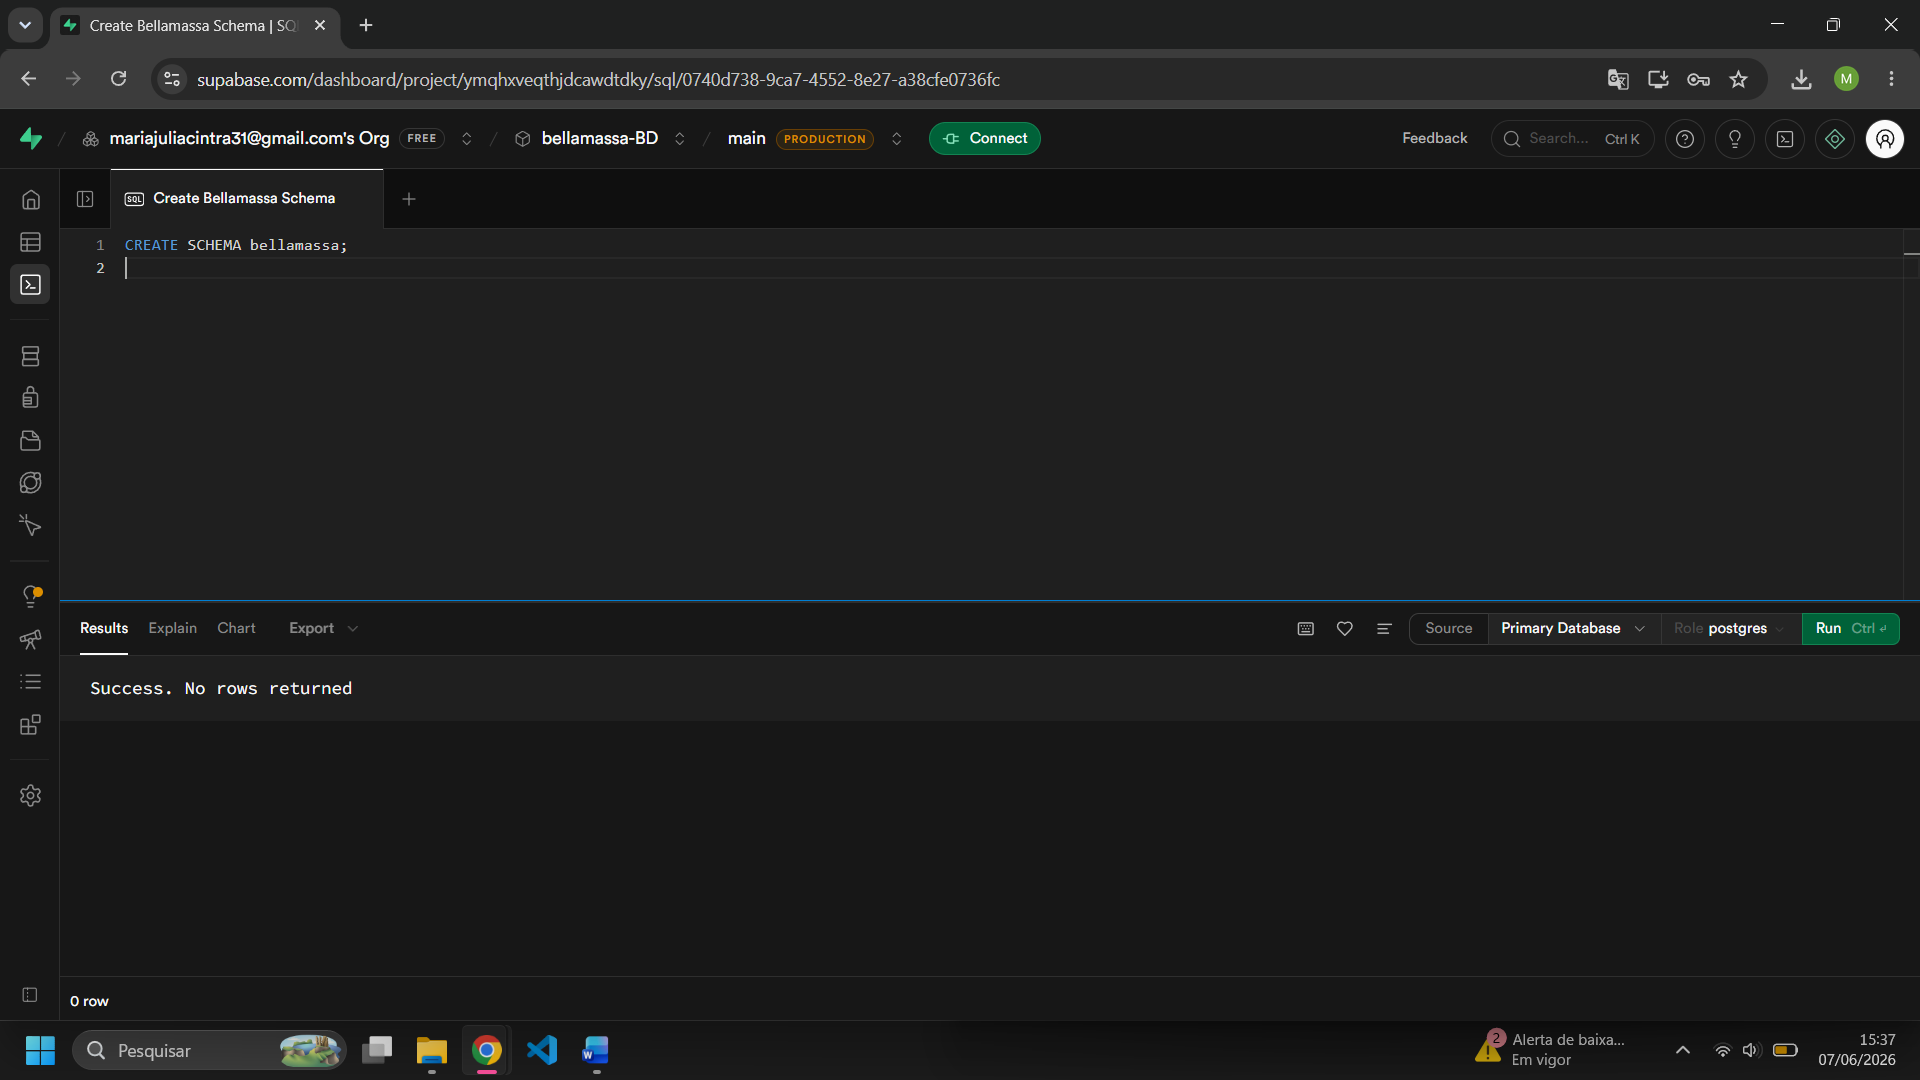
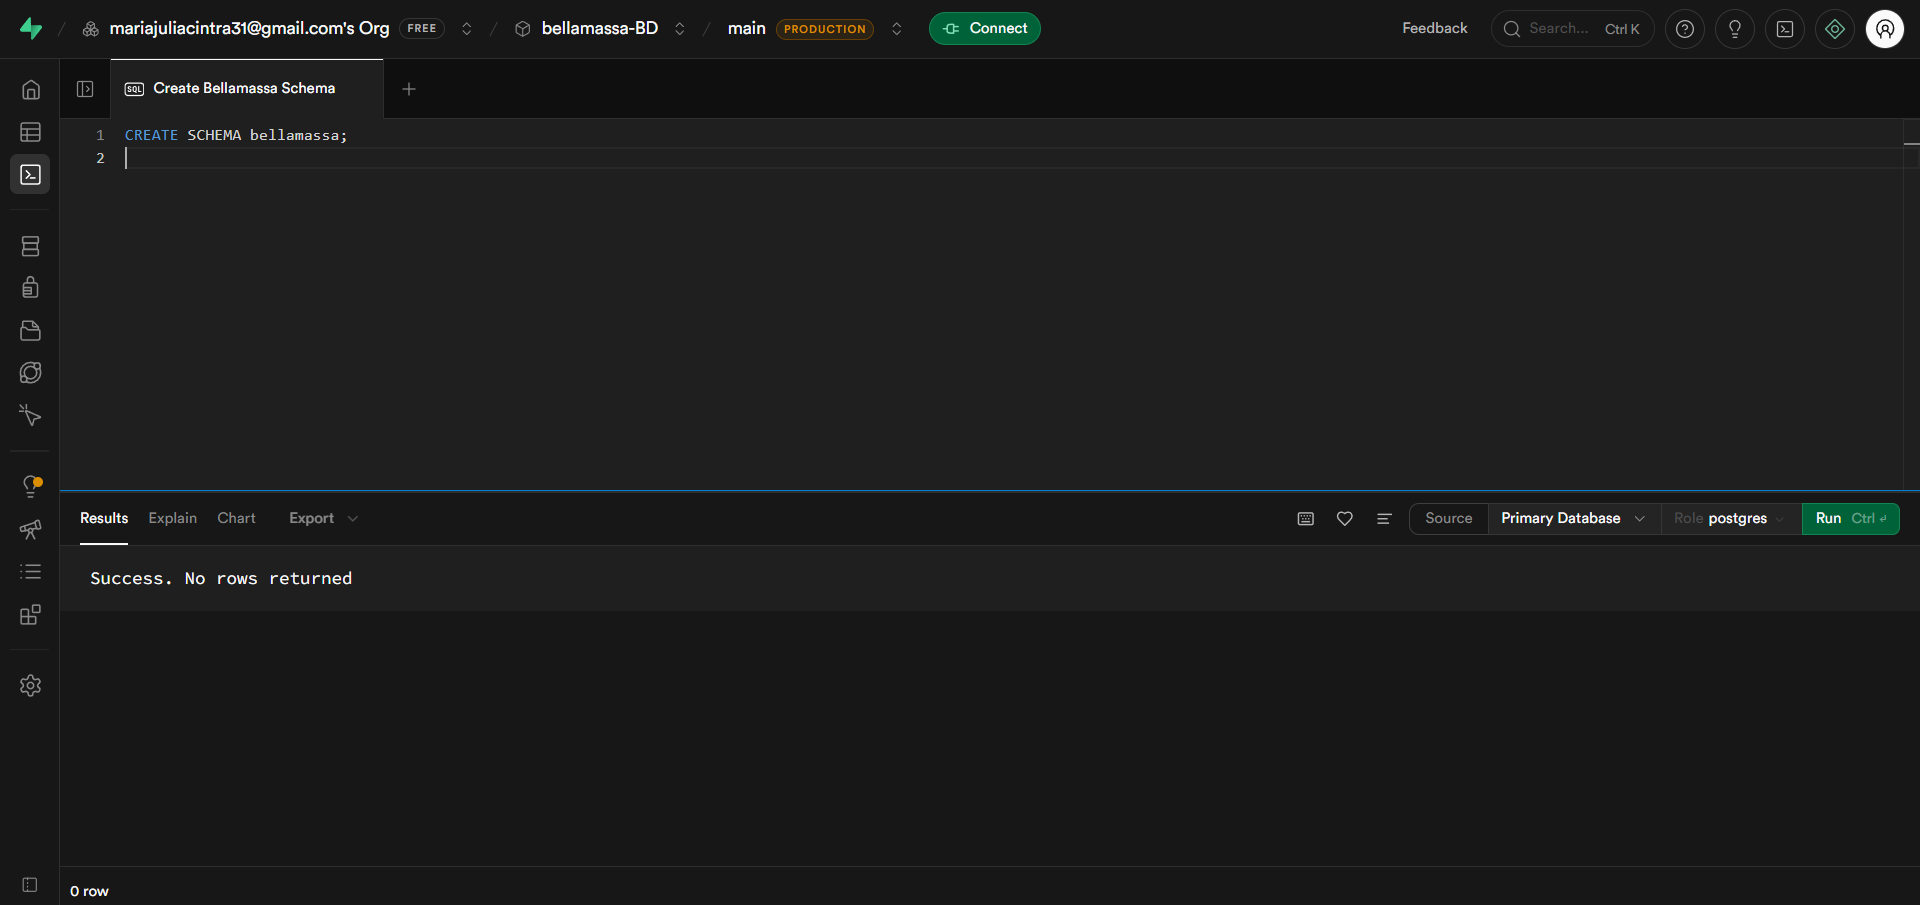
Adicionando as imagens no README

diff --git a/README.md b/README.md
@@ -1,84 +1,97 @@
 # 🍕 Bella Massa - Sistema de Gerenciamento de Pedidos
 
-## Cenário
+## 1. Cenário
 
 A pizzaria **Bella Massa** está passando por um processo de expansão e necessita de um sistema para automatizar o gerenciamento de clientes, pedidos, entregas, ingredientes adicionais e programa de fidelidade.
 
 O sistema foi projetado para atender às seguintes necessidades:
 
-* Cadastro de clientes e múltiplos telefones de contato;
-* Controle do cardápio de pizzas e bebidas;
-* Registro de ingredientes adicionais nos pedidos;
-* Gerenciamento de pedidos e cálculo automático do valor total;
-* Controle de entregas realizadas pelos motoboys;
-* Programa de fidelidade para clientes VIP.
+- Cadastro de clientes e múltiplos telefones de contato;
+- Controle do cardápio de pizzas e bebidas;
+- Registro de ingredientes adicionais nos pedidos;
+- Gerenciamento de pedidos e cálculo automático do valor total;
+- Controle de entregas realizadas pelos motoboys;
+- Programa de fidelidade para clientes VIP.
 
 ---
 
-## Modelagem Conceitual
+## 2. Modelagem Conceitual
 
 Nesta etapa foi realizada a identificação das entidades, atributos e relacionamentos necessários para representar o cenário da pizzaria.
 
 ### Principais Entidades
 
-* Cliente
-* Telefone
-* Pedido
-* Item do Cardápio
-* Ingrediente Adicional
-* Item do Pedido
-* Motoboy
-* Entrega
-* Conta Fidelidade
+- **Cliente** – representa o cliente que realiza pedidos na pizzaria;
+- **Endereço** – endereço associado ao cliente para fins de entrega;
+- **Pedido** – registro de cada compra realizada por um cliente;
+- **Produto** – itens disponíveis no cardápio (pizzas e bebidas);
+- **Motoboy** – responsável por realizar as entregas dos pedidos;
+- **Conta_fidelidade** – programa de pontos exclusivo para clientes VIP.
 
 ### Relacionamentos Identificados
 
-* Um cliente pode possuir vários telefones;
-* Um cliente pode realizar vários pedidos;
-* Um pedido contém vários itens;
-* Um item do pedido pode possuir vários ingredientes adicionais;
-* Um motoboy realiza entregas;
-* Cada pedido possui uma entrega;
-* Um cliente pode possuir uma conta fidelidade exclusiva.
+- Um **Cliente** pode possuir vários **telefones** de contato;
+- Um **Cliente** pode realizar vários **Pedidos**;
+- Um **Pedido** contém vários **Produtos** (relação N:N via tabela intermediária `Pedido_produto`);
+- Um item do pedido pode possuir vários **ingredientes adicionais**;
+- Um **Motoboy** realiza **Entregas**;
+- Cada **Pedido** possui uma única **Entrega**;
+- Um **Cliente** pode possuir uma **Conta_fidelidade** exclusiva (relação 1:1).
 
 ### DER (Diagrama Entidade Relacionamento)
 
-![DER da Bella Massa](./DER-bellamassa.png)
+![Diagrama Entidade Relacionamento](./DER-bellamassa.png)
 
 ---
 
-## Modelagem Lógica
+## 3. Modelagem Lógica
 
-Após a modelagem conceitual, foi realizada a transformação para o modelo lógico, definindo:
+Após a modelagem conceitual, foi realizada a transformação para o modelo lógico, definindo tabelas, chaves primárias e chaves estrangeiras.
 
 ### Tabelas
 
-* Cliente
-* Telefone
-* Pedido
-* Item_Cardapio
-* Ingrediente
-* Item_Pedido
-* Item_Pedido_Ingrediente
-* Motoboy
-* Entrega
-* Conta_Fidelidade
+| Tabela           | Descrição                                              |
+|------------------|--------------------------------------------------------|
+| `Cliente`        | Armazena os dados dos clientes                         |
+| `Endereco`       | Armazena o endereço de entrega do cliente              |
+| `Produto`        | Armazena os itens do cardápio (pizzas e bebidas)       |
+| `Pedido`         | Registra os pedidos realizados                         |
+| `Pedido_produto` | Tabela associativa entre Pedido e Produto (N:N)        |
+| `Ingrediente`    | Ingredientes adicionais vinculados a um item do pedido |
+| `Motoboy`        | Dados dos motoboys responsáveis pelas entregas         |
+| `Entrega`        | Registra as entregas vinculadas a cada pedido          |
+| `Conta_fidelidade` | Conta de pontos exclusiva por cliente               |
 
-### Chaves Primárias
+### Chaves Primárias (PK)
 
-Descrever as PKs definidas para cada tabela.
+| Tabela             | Chave Primária       | Tipo   | Observação                          |
+|--------------------|----------------------|--------|-------------------------------------|
+| `Cliente`          | `id_cliente`         | INT    | Auto incremento                     |
+| `Endereco`         | `id_endereco`        | INT    | Auto incremento                     |
+| `Produto`          | `id_produto`         | INT    | Auto incremento                     |
+| `Pedido`           | `id_pedido`          | INT    | Auto incremento                     |
+| `Pedido_produto`   | `id_pedido_produto`  | INT    | Auto incremento                     |
+| `Motoboy`          | `cpf`                | CHAR   | CPF utilizado como identificador    |
+| `Conta_fidelidade` | `id_conta`           | INT    | Auto incremento                     |
 
-### Chaves Estrangeiras
+### Chaves Estrangeiras (FK)
 
-Descrever as FKs responsáveis pelos relacionamentos entre as tabelas.
+| Tabela             | Chave Estrangeira   | Referencia                  | Relacionamento |
+|--------------------|---------------------|-----------------------------|----------------|
+| `Endereco`         | `id_cliente`        | `Cliente(id_cliente)`       | N:1            |
+| `Pedido`           | `id_cliente`        | `Cliente(id_cliente)`       | N:1            |
+| `Pedido_produto`   | `id_pedido`         | `Pedido(id_pedido)`         | N:1            |
+| `Pedido_produto`   | `id_produto`        | `Produto(id_produto)`       | N:1            |
+| `Pedido`           | `cpf_motoboy`       | `Motoboy(cpf)`              | N:1            |
+| `Conta_fidelidade` | `id_cliente`        | `Cliente(id_cliente)`       | 1:1            |
 
 ### MER (Modelo Entidade Relacionamento)
 
-![MER da Bella Massa](./MER-bellamassa.png)
+![Modelo Entidade Relacionamento](./MER-bellamassa.png)
 
 ---
 
-## Modelagem Física
+## 4. Modelagem Física
 
 Nesta etapa foi realizada a implementação do banco de dados no SGBD escolhido.
 
@@ -86,129 +99,164 @@ Nesta etapa foi realizada a implementação do banco de dados no SGBD escolhido.
 
 Foi criado o banco de dados destinado ao gerenciamento da pizzaria Bella Massa.
 
-![Criação do banco](./imagens/criacao-banco.png)
+![Criação do Banco de Dados](./imagens/criacao-banco.png)
 
 ### Criação das Tabelas
 
 Foram criadas todas as tabelas conforme a modelagem lógica, incluindo:
 
-* Chaves Primárias (PK)
-* Chaves Estrangeiras (FK)
-* Restrições de integridade
+- Chaves Primárias (PK);
+- Chaves Estrangeiras (FK);
 
-![Criação das tabelas e suas respctivas associações](./imagens/tabelas-associacoes.png)
+![Tabelas e associações](./imagens/tabelas-associacoes.png)
 
 ### Schema Visualizer
 
 Visualização gráfica das tabelas criadas e seus relacionamentos.
 
-📷 **Inserir print do Schema Visualizer aqui**
+![Schema Visualizer](./imagens/schema-visualizer.png)
 
-### Evidência de Domínio
+### Conceitos Aplicados
 
-Durante a implementação foram utilizados conceitos de:
+Durante a implementação foram utilizados os seguintes conceitos:
 
-* Modelagem de Dados;
-* Integridade Referencial;
-* Relacionamentos 1:1;
-* Relacionamentos 1:N;
-* Relacionamentos N:N;
-* Chaves Primárias e Estrangeiras;
-* Normalização de Dados.
+- Modelagem de Dados;
+- Integridade Referencial;
+- Relacionamentos 1:1 (ex: Cliente ↔ Conta_fidelidade);
+- Relacionamentos 1:N (ex: Cliente → Pedido);
+- Relacionamentos N:N (ex: Pedido ↔ Produto via Pedido_produto);
+- Chaves Primárias e Estrangeiras;
+- Normalização de Dados.
 
 ---
 
-## CRUD
+## 5. CRUD
 
 Foram realizados testes completos de manipulação dos dados utilizando operações CRUD.
 
-### CREATE
+### CREATE – Inserção de Dados
 
 Inserção de registros em todas as tabelas do sistema.
 
-📷 **Inserir print dos INSERTS aqui**
+![Create](./imagens/insert.png)
 
 ---
 
-### READ
+### READ – Consulta de Dados
 
-Consultas realizadas para verificar os dados cadastrados.
+Consultas realizadas para verificar os dados cadastrados:
 
-Exemplos:
+- Listagem de clientes;
+- Buscar de cliente por nome.
 
-* Listagem de clientes;
-* Listagem de pedidos;
-* Histórico de entregas;
-* Clientes participantes do programa de fidelidade.
-
-📷 **Inserir print dos SELECTS aqui**
+![Select](./imagens/select.png)
 
 ---
 
-### UPDATE
+### UPDATE – Atualização de Dados
 
-Atualização de informações previamente cadastradas.
+Atualização de informações previamente cadastradas:
 
-Exemplos:
+- Alteração do telefone do cliente;
 
-* Alteração de endereço de cliente;
-* Atualização de saldo de pontos;
-* Atualização de preço de item do cardápio.
-
-📷 **Inserir print dos UPDATES aqui**
+![Update](./imagens/update.png)
 
 ---
 
-### DELETE
+### DELETE – Exclusão de Dados
 
-Exclusão de registros para validação da integridade dos dados.
+Exclusão de registros:
 
-Exemplos:
+- Exclusao de cliente
 
-* Remoção de telefone;
-* Exclusão de ingrediente;
-* Exclusão de registros de teste.
-
-📷 **Inserir print dos DELETES aqui**
+![Delete](./imagens/delete.png)
 
 ---
 
-## Relatórios
+## 6. Relatórios
 
-Foram desenvolvidas consultas para extração de informações gerenciais.
+Foram desenvolvidas consultas SQL para extração de informações gerenciais.
 
-### Relatório 1 – Pedidos por Cliente
+### Relatório 1 – Clientes VIP - saldo positivo
 
-Objetivo: visualizar todos os pedidos realizados por cada cliente.
+**Objetivo:** Visualizar todos os clientes que possuem conta fidelidade com saldo positivo
 
-📷 **Inserir print do relatório aqui**
-
----
-
-### Relatório 2 – Histórico de Entregas
-
-Objetivo: identificar qual motoboy realizou cada entrega.
-
-📷 **Inserir print do relatório aqui**
+![Relatório 1](./imagens/relatorio1.png)
 
 ---
 
-### Relatório 3 – Faturamento dos Pedidos
+### Relatório 2 – Pedidos de maio/2026
 
-Objetivo: exibir o valor total calculado de cada pedido.
+**Objetivo:** Visualizar os pedidos realizados em junho de 2026
 
-📷 **Inserir print do relatório aqui**
+![Relatório 2](./imagens/relatorio2.png)
 
 ---
 
-### Relatório 4 – Programa de Fidelidade
+### Relatório 3 – Valor unitário
 
-Objetivo: listar clientes participantes e seus respectivos saldos de pontos.
+**Objetivo:** Exibir os itens de pedido cujo preço unitário é maior que R$ 40,00.
 
-📷 **Inserir print do relatório aqui**
+![Relatório 3](./imagens/relatorio3.png)
+
+---
+
+### Relatório 4 – Pedido sem motoboy atribuido
+
+**Objetivo:** Listar os pedidos que ainda NÃO foram atribuídos a um motoboy.
+
+![Relatório 4](./imagens/relatorio4.png)
+
+---
+
+### Relatório 5 – Histórico de entregas por motoboy
+
+**Objetivo:** Listar o histórico de entregas por motoboy.
+
+![Relatório 5](./imagens/relatorio5.png)
+
+---
+
+### Relatório 6 – Endereços de entrega dos clientes que já fizeram pedidos
+
+**Objetivo:** Listar os endereços dos clientes.
+
+![Relatório 6](./imagens/relatorio6.png)
+
+---
+
+### Relatório 7 – Pizzas mais pedidas
+
+**Objetivo:** Listar as pizzas mais pedidas.
+
+![Relatório 7](./imagens/relatorio7.png)
+
+---
+
+### Relatório 8 – Clientes VIP com pedidos acima de R$ 80,00
+
+**Objetivo:** Listar os cliente VIP's com pedidos feitos avima de 80 reais.
+
+![Relatório 8](./imagens/relatorio8.png)
+
+---
+
+### Relatório 9 – Nota fiscal resumida de cada pedido
+
+**Objetivo:** Listar todas as informações nescessário dos pedidos.
+
+![Relatório 94](./imagens/relatorio9.png)
+
+---
+
+### Relatório 10 – Ranking de clientes
+
+**Objetivo:** Listar os cliente com maior valor gasto.
+
+![Relatório 10](./imagens/relatorio10.png)
 
 ---
 
 ## Conclusão
 
-O projeto permitiu aplicar conceitos fundamentais de Banco de Dados, desde a modelagem conceitual até a implementação física e realização de operações CRUD. Além disso, foram desenvolvidas consultas e relatórios capazes de apoiar a gestão da pizzaria Bella Massa, garantindo organização, integridade e eficiência no armazenamento e recuperação das informações.
+O projeto permitiu aplicar conceitos fundamentais de Banco de Dados, desde a modelagem conceitual até a implementação física e realização de operações CRUD. Foram modeladas 7 tabelas com relacionamentos 1:1, 1:N e N:N, garantindo integridade referencial e normalização dos dados. Além disso, foram desenvolvidas consultas e relatórios capazes de apoiar a gestão da pizzaria Bella Massa, garantindo organização, integridade e eficiência no armazenamento e recuperação das informações.